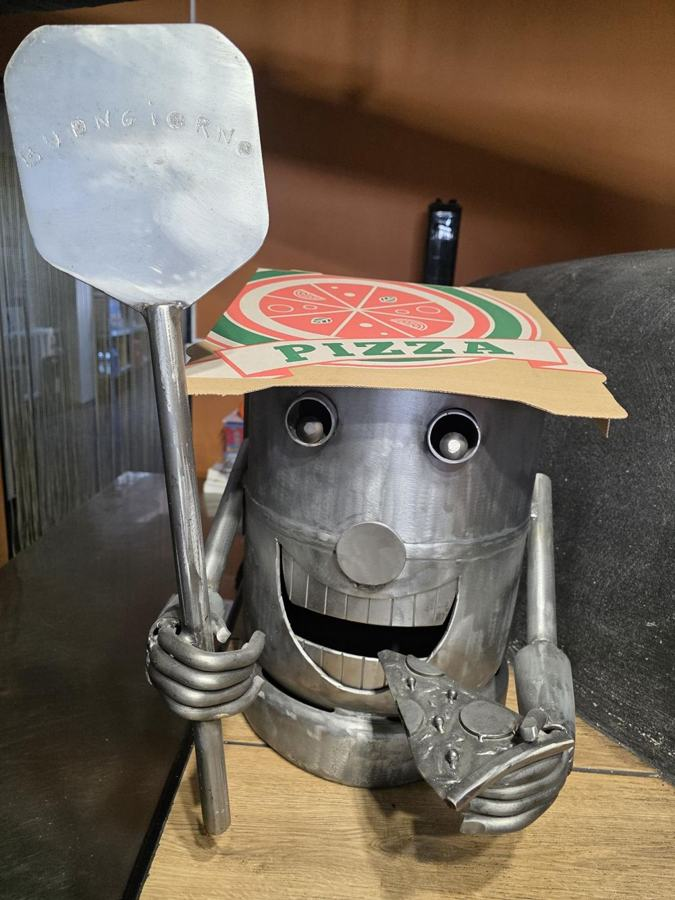
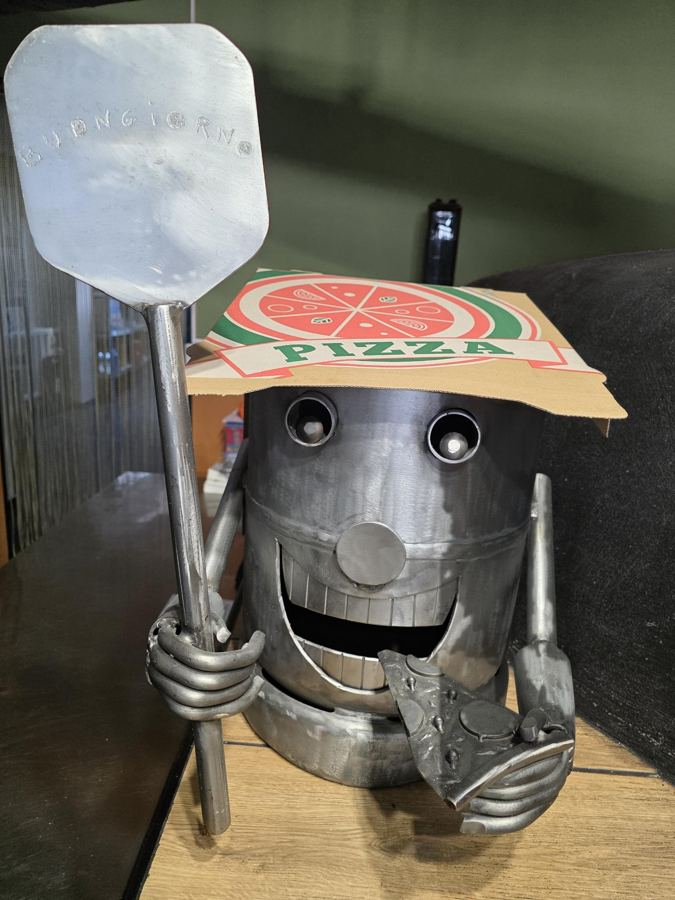
Prova: photos aux couleurs actuelles, vitrine
Claude-Session: https://claude.ai/code/session_01VttuGCcj9PgyBEyypoauF4

Changed region(s): [[0.1244, 0.0, 1.0, 0.9022], [0.28, 0.1867, 0.6533, 0.3733], [0.8711, 0.84, 0.9022, 0.8711]]

diff --git a/prova/index.html b/prova/index.html
@@ -204,7 +204,7 @@ nav.bot a span.t{white-space:nowrap;overflow:hidden;text-overflow:ellipsis;max-w
       <p data-t="about1"></p>
       <p data-t="about2"></p>
     </div>
-    <div class="ph"><img src="img/panetti.jpg" alt="" loading="lazy"><img src="img/hero.jpg" alt="" loading="lazy"></div>
+    <div class="ph"><img src="img/vetrina.jpg" alt="" loading="lazy"><img src="img/panetti.jpg" alt="" loading="lazy"></div>
   </div>
 </section>
 
